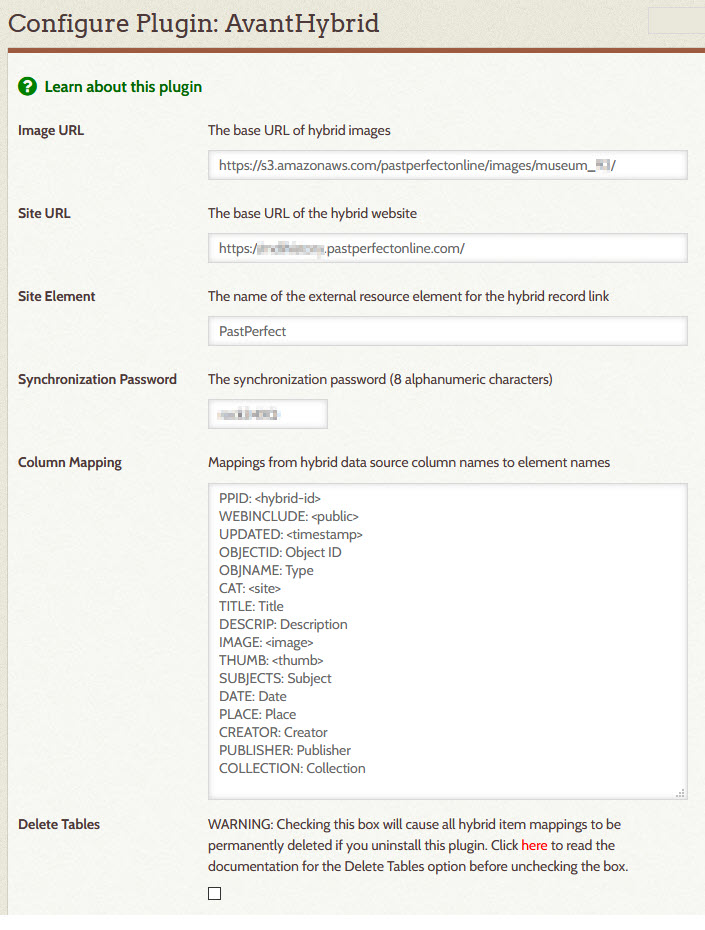
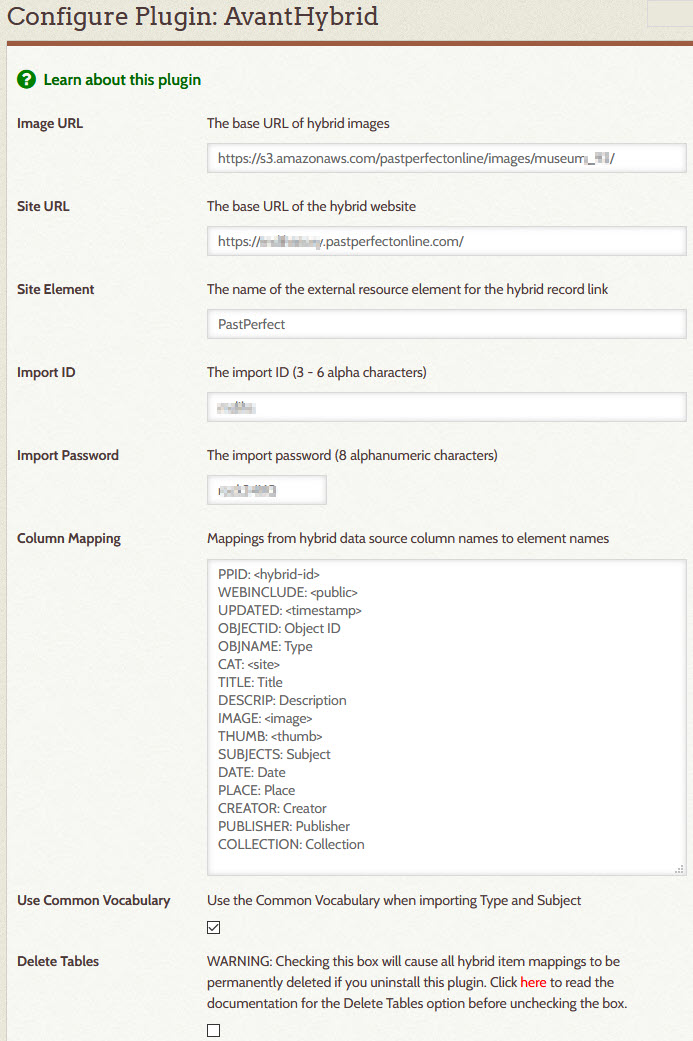
Content updates.

diff --git a/digital-archive/docs/plugins/avanthybrid.md b/digital-archive/docs/plugins/avanthybrid.md
@@ -4,7 +4,7 @@
 
 The AvantHybrid plugin provides support for Digital Archive items that originate from, and are maintained
 in, another database but are displayed by, and searchable from, the Digital Archive.
-They are called *hybrid* items because they are composed of data from two difference sources.
+They are called *hybrid* items because they are formed from two difference sources of data.
 
 ---
 
@@ -13,15 +13,15 @@ They are called *hybrid* items because they are composed of data from two differ
 Hybrid item
 :   A hybrid item is a Digital Archive item that corresponds to a **source record** that is stored in a **source database**.
 
+Source database
+:   A source database is a database that is separate from and external to the Digital Archive. It stores **source record**s.
+    The [dBase](https://en.wikipedia.org/wiki/DBase) database used by PastPerfect is an example of a source database.
+
 Source record
 :   A source record is a **source database** record which has a corresponding **hybrid item** in the Digital Archive.
     The word "record" is a database term referring to a collection of fields about the same item in a database. While the terms *record*
-    and *item* are synonymous, this AvantHybrid documentation uses  record as a way to distinguish data stored in a
-    **source database** from an item's data stored in the Digital Archive.
-
-Source database
-:   A source database is a database that is separate from and external to the Digital Archive. It stores **source record**s.
-    The dBase database used by PastPerfect is an example of a source database.
+    and *item* are synonymous, this AvantHybrid documentation uses *record* as a way to distinguish data stored in a
+    **source database** from a **hyrbid item**'s data stored in the Digital Archive.
 
 Source database software
 :   Source database software refers to a computer program that is used to add, edit, and delete records in
@@ -44,6 +44,8 @@ The AvantHybrid plugin:
 -   Displays hybrid items in the Digital Archive by displaying an item's:
     -   Metadata which AvantHybrid imported from the source database
     -   Images located on the source database software's image server
+-   Allows you to use the Digital Archive to add attach additional files (such as a PDF
+    or a zoomable image), and add relationships to, hybrid items
 
 > Example
 
@@ -82,64 +84,135 @@ When you add a new source record and image in PastPerfect:
 AvantHybrid has these configuration options:
 
 Image URL
-:   Use this option to specify the base URL for hybrid images and thumbnails.
+:   Use this option to specify the base URL for hybrid images and thumbnails. AvantHybrid will
+    append the values of the `<image>` and `<thumb>` columns to form the URL for an image.
 
 Site URL
 :   Use this option to specify the base URL for hybrid records. This option is only required
-    if the **_Site Element_** option is specified.
+    if the **_Site Element_** option is specified. AvantHybrid will
+    append the value of the `<site>` column to form the URL for a source record's online webpage.
 
 Site Element
-:   Use this option to specify the name of the Omeka element that you want to use to display
-    a link to the webpage that is the source of a hybrid item's metadata and images. That 
+:   Use this option to specify the name of the Omeka element used to display
+    a link to the webpage for a source record. The 
     element should be specified in the [External Link option](/plugins/avantelements/#external-link-option)
     of the AvantElements plugin. If this option is used, the **_Site URL_** option must be specified.
 
-Synchronization Password
+Import ID
+:   This option specifies a six character site ID that must be passed when making a remote
+    request to AvantHybrid to import source records.
+
+Import Password
 :   This option specifies an eight character password that must be passed when making a remote
-    request to AvantHybrid to update hybrid items that have been added, updated, or deleted.
+    request to AvantHybrid to import source records.
 
 Column Mapping
-:   Use this option to associate source columns with hybrid element properties and elements.
+:   Use this option to associate source record columns with hybrid item element properties and elements.
+    The option requires that all of the following properties be mapped:
+
+    -   `<hybrid-id>` is an identifier that uniquely identifies a source record in the source database
+    -   `<timestamp>` a non-blank value indicates that the source record has changed
+    -   `<image>` forms the URL for the source record's image when appended to **_Image URL_**
+    -   `<thumb>` forms the URL for the source record's thumbnail when appended to **_Image URL_**
+    -   `<public>` is a value of '1' if the hybrid item should be public
+    -   `<site>` forms a link to the source record's webpage when appended to **_Site URL_** 
+
+Use Common Vocabulary
+:   Checking this option will cause AvantHybrid to attempt to convert **_Type_** and **_Subject_** values from
+    each source record to [Common Vocabulary](/archivist/common-vocabulary/) terms. If the source record value
+    matches a [Common Vocabulary leaf](/technology/common-vocabulary-translator/#leaf), the value will be changed
+    to the corresponding Common Vocabulary term. For example, the source record Type `Yearbook` will
+    automatically be changed to `Publication, Yearbook`. If no match is found, AvantHybrid will prepend `Other, `
+    to the value. For this to work, source leaf values must be in Nomenclature  *natural order*.
+    The [AvantVocabulary](/plugins/avantvocabulary/) plugin must be installed and activated to use this feature.
 
 Delete Tables
-:   WARNING: Checking this option will cause all hybrid item mappings to be permanently deleted if you uninstall this plugin.
+:   WARNING: Checking this option will cause all of these configuration options, and all information about
+    hybrid items, to be permanently deleted if you uninstall this plugin.
 
 ![AvantHybrid configuration page](avanthybrid-1.jpg)
 
 ## Data format
 
+This section describes the format of the data that rows in the import file must conform to.
+
+`<hybrid-id>`
+:   Any value that uniquely identifies a source record.
+
+    Example: `58DF9E02-0D98-429B-B9E8-666324969299`
+
+    If the Digital Archive contains a hybrid item having
+    a hybrid ID that does not exist in this column for any row of the import file, the AvantHybrid plugin
+    will interpret this to mean that the hybrid-item's source record has been deleted from the source database,
+    and delete the Hybrid item from the Digital Archive. Any files or relationships attached to the  hybrid
+    item using the Digital Archive will be deleted as well.
+
+`<timestamp>`
+:   -   A blank value means the source record identified by `<hybrid-id>` exists in the source database,
+        but has not changed since the last import
+    -   A non-blank value means that the source record identified by `<hybrid-id>`has either been added
+        to or changed in the source database since the last import
+    
+    While the example below shows a valid timestamp, the AvantHybrid
+    plugin does not use this value for any other purpose than to detect records that have be added or changed.  
+    Example: `2020-09-03 12:01:06`
+
 `<image>` and `<thumb>`
 :   The `<image>` and `<thumb>` columns must each contain a semicolon-separated list of
-    zero or more file names which when appended to the **_Image URL_** option value will produce a valid
-    image or thumbnail URL.
-
-    The image and thumb values must correspond to each other, that is, they must have the same number of
-    values, and the values must be for the same image. For example:  
-    `015/002614.jpg;016/002614-2.jpg` and `015/thumbs/002614.jpg;016/thumbs/002614-2.jpg`
+    zero or more file names which when appended to the **_Image URL_** option value will form a valid
+    image or thumbnail URL on the source database's image server. The two columns must have the same
+    number of values, in the same sequence, for the same image. Both values must be blank if the source
+    record has no images.
+    Example:  
+    `<image>` : `015/002614.jpg;016/002614-2.jpg`  
+    `<thumb>` : `015/thumbs/002614.jpg;016/thumbs/002614-2.jpg`
 
 `<public>`
-:   A `1` in this column indicated that the hybrid items should be public. Any other values means it is not public. 
+:   A `1` in this column indicated that the hybrid items should be public. Any other values means it is not public.
 
-## Synchronization
+`<site>`
+:   The value of this column, when appended to the **_Site URL_** option value, will form a valid URL to the source record's
+    webpage. If the value itself contains `<hybrid-id>`, AvantHybrid will replace `<hybrid-id>` with the value
+    of the `<hybrid-id>` column when forming the URL.  
+    Example: `archive/<hybrid-id>`
 
-The AvantHybrid plugin synchronizes data exported from a source database with hybrid items in the
-Digital Archive. It can work with data from any source as long as the data can be exported into a CSV
-file that meets the AvantHybrid requirements. 
+Element names
+:   All other columns are the names of Omeka elements and must contain values appropriate for those
+    elements. Multiple values for the same element can be specified in a semi-colon separated list.
 
-## Remote request
+## Data import
+
+The AvantHybrid plugin imports data that is exported from a source database into a CSV file that
+conforms to the data format described in the previous section.
+
+The plugin:
+
+-   Creates a new hybrid item in the Digital Archive for each source record that has been added to the
+    source database since the last import
+-   Updates an existing hybrid item in the Digital Archive for each source record that has been updated in the
+    source database since the last import
+-   Deletes hybrid items from the Digital Archive that have been deleted from the source database
+    since the last import
+
+### Remote request
+
+The AvantHybrid's import feature is normally invoked via a remote POST request to the Digital Archive
+site's `avant/remote` page. It can also be invoked by a developer who is logged in as an administrator and makes
+a GET request via query string parameters.
 
 The AvantHybrid plugin will respond to a remote request where the following arguments are posted:
 
 -   `action`
 -   `filename`
+-   `site`
 -   `password`
 
 Action
-:   The action must be `hybrid-update`. The action will add, update, or delete hybrid items in the Digital Archive
+:   The action must be `hybrid-import`. The action will add, update, or delete hybrid items in the Digital Archive
     that have been added, updated, or deleted in the source database.
 
 Filename
-:   The filename must be the name of a CSV file located in `public_html/digitalarchive/files/hybrid`.
+:   The file name must be the name of a CSV import file located in `public_html/digitalarchive/files/hybrid`.
 
     The file must have columns corresponding to those specified in the **_Column Mapping_** configuration
     option value. The order of the columns in the file need not match the order specified in the option,
@@ -148,24 +221,31 @@ Filename
     The file must contain a header row containing the column names, followed by one row for *every* record
     in the source database. The `<hybrid-id>` value must be provided for *every* row, but the other columns
     should only be provided for source records that have been added or changed. If the `<timestamp>` column
-    is blank, AvantHybrid assumes that the record has not changed. AvantHybrid does not use the value of the
-    `<timestamp>` column except for this purpose.
+    is blank, AvantHybrid assumes that the source record has not changed and ignores all of the other columns.
 
-    If a record has been deleted in the source database, it should *not* be included in the file. AvantHybrid
-    will determine which hybrid item(s) to delete based on their omission from the file. That is, AvantHybrid
-    will check for the presence of every hybrid item in the Digital Archive within the file and if it does not
-    find one, it will delete that hybrid item.
+    If a record has been deleted in the source database, it must *not* be included in the import file. AvantHybrid
+    will determine which hybrid item(s) to delete based on their omission from the file.
+
+Site
+:   The site must match the **_Site ID_** configuration option value.
 
 Password
-:   The password must match the **_Synchronization Password_** configuration option value.
+:   The password must match the **_Import Password_** configuration option value.
 
-## Common Vocabulary
-If the [AvantVocabulary](/plugins/avantvocabulary/) plugin is installed and activated, AvantHybrid will attempt
-to convert **_Type_** and **_Subject_** values from the source database to [Common Vocabulary](/archivist/common-vocabulary/)
-terms. If the source value matches a [Common Vocabulary leaf](/technology/common-vocabulary-translator/#leaf), the
-value will be changed to the corresponding Common Vocabulary term. For example, the source term `Yearbook` will
-automatically be changed to `Publication, Yearbook`. For this to work, source leaf values must be in Nomenclature
-*natural order*.
+If the same file is inadvertently posted more than once, the AvantHybrid will interpret and act on the data in a
+way that will leave the Digital Archive in the same state as it was following the original post. In other words,
+no harm will be done.
+
+### Remote request response
+
+The remote request returns a 200 response code with text that starts with `OK` to indicate that the import was successful.
+Any other code or text indicates that the import failed. Upon receiving a successful response, the program making the request
+should record a timestamp to use when performing the next export:
+
+-   Any source records that are added to or changed in the source database after that timestamp should be included
+    in the next export
+-   Any source records that are deleted in the source database after that timestamp should be excluded from the next export
+-   The hybrid ID for all other source records should be included in the next export, but all other columns should be blank
 
 ## Dependencies
 The AvantHybrid plugin requires that the [AvantCommon] plugin be installed and activated.

diff --git a/digital-archive/docs/technology/dbase-exporter.md b/digital-archive/docs/technology/dbase-exporter.md
@@ -6,16 +6,36 @@
 
 ```
 [options]
-organization = Mount Desert Island Historical Society
-export = C:\Users\gsoules\Desktop
+organization = Your Historical Society
+export = C:\xampp\htdocs\omeka\files\hybrid
 data = C:\pp5\Data
 delete_last_export = no
 fields = 
-	GPARENT
-	PARENT
+	DATE
+	PLACE
+	CREATOR
+	PUBLISHER
+	COLLECTION
 	DESCRIP
-last_export = 2020-03-16 08:06:39
+last_export = 2020-09-05 10:10:15
+
+[ftp]
+host = ftp.yourdomain.net
+user = hybrid@yourdomain.net
+password = kxxxxxxxxx9
+
+[import]
+site = yrsite
+url = http://yourdomain/digitalarchive
+password = abcd1234
 ```
+
+## Add an export column
+
+-	Add an element for the column in Omeka
+-	Add to column mapping in AvantHybrid configuration
+-	Add the column to the .config file above
+-	Export all records and import them
 
 ## Export data to a CSV file
 
